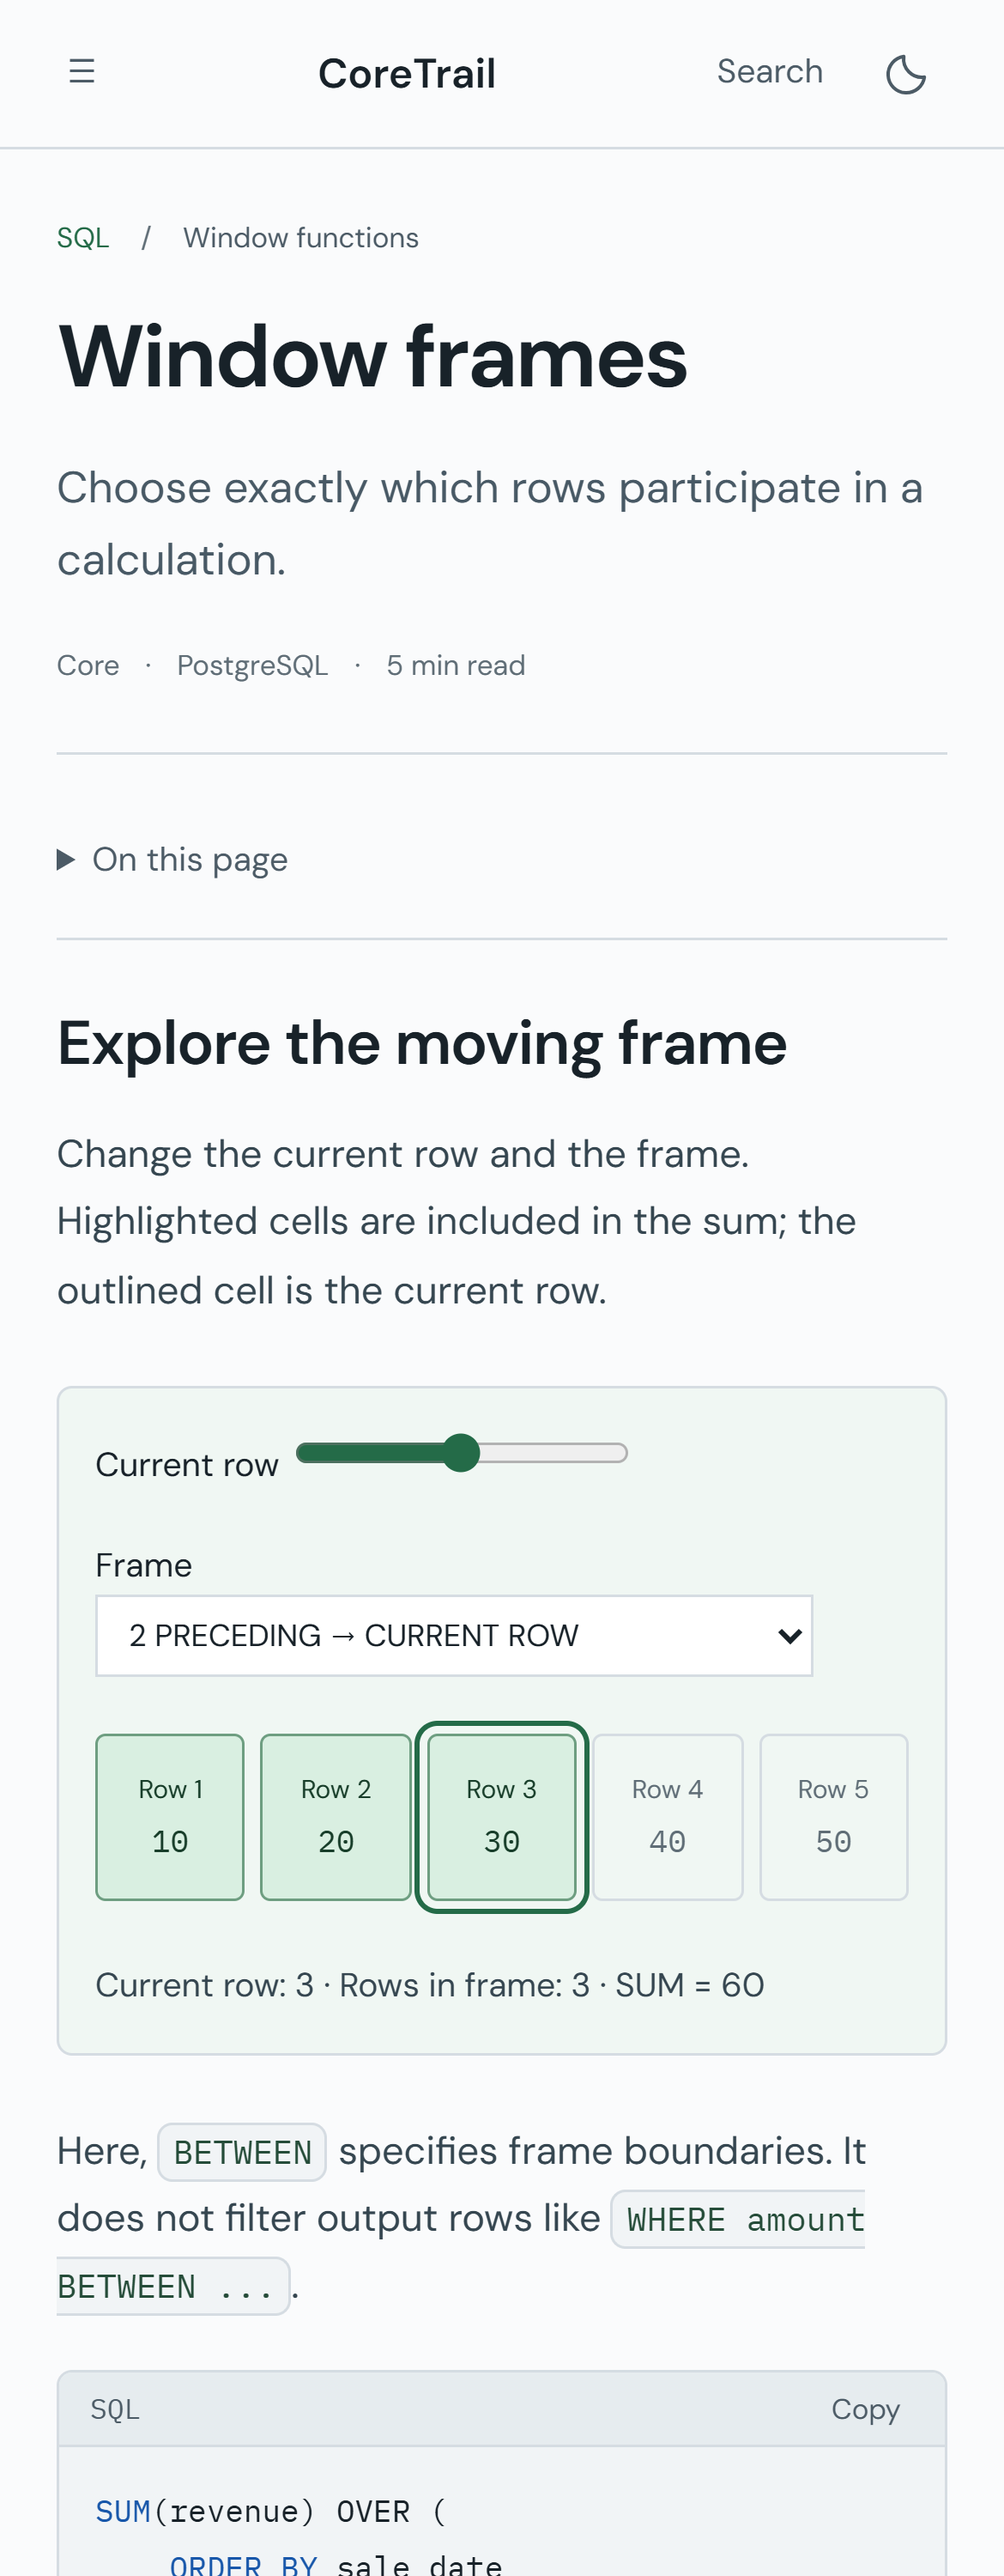
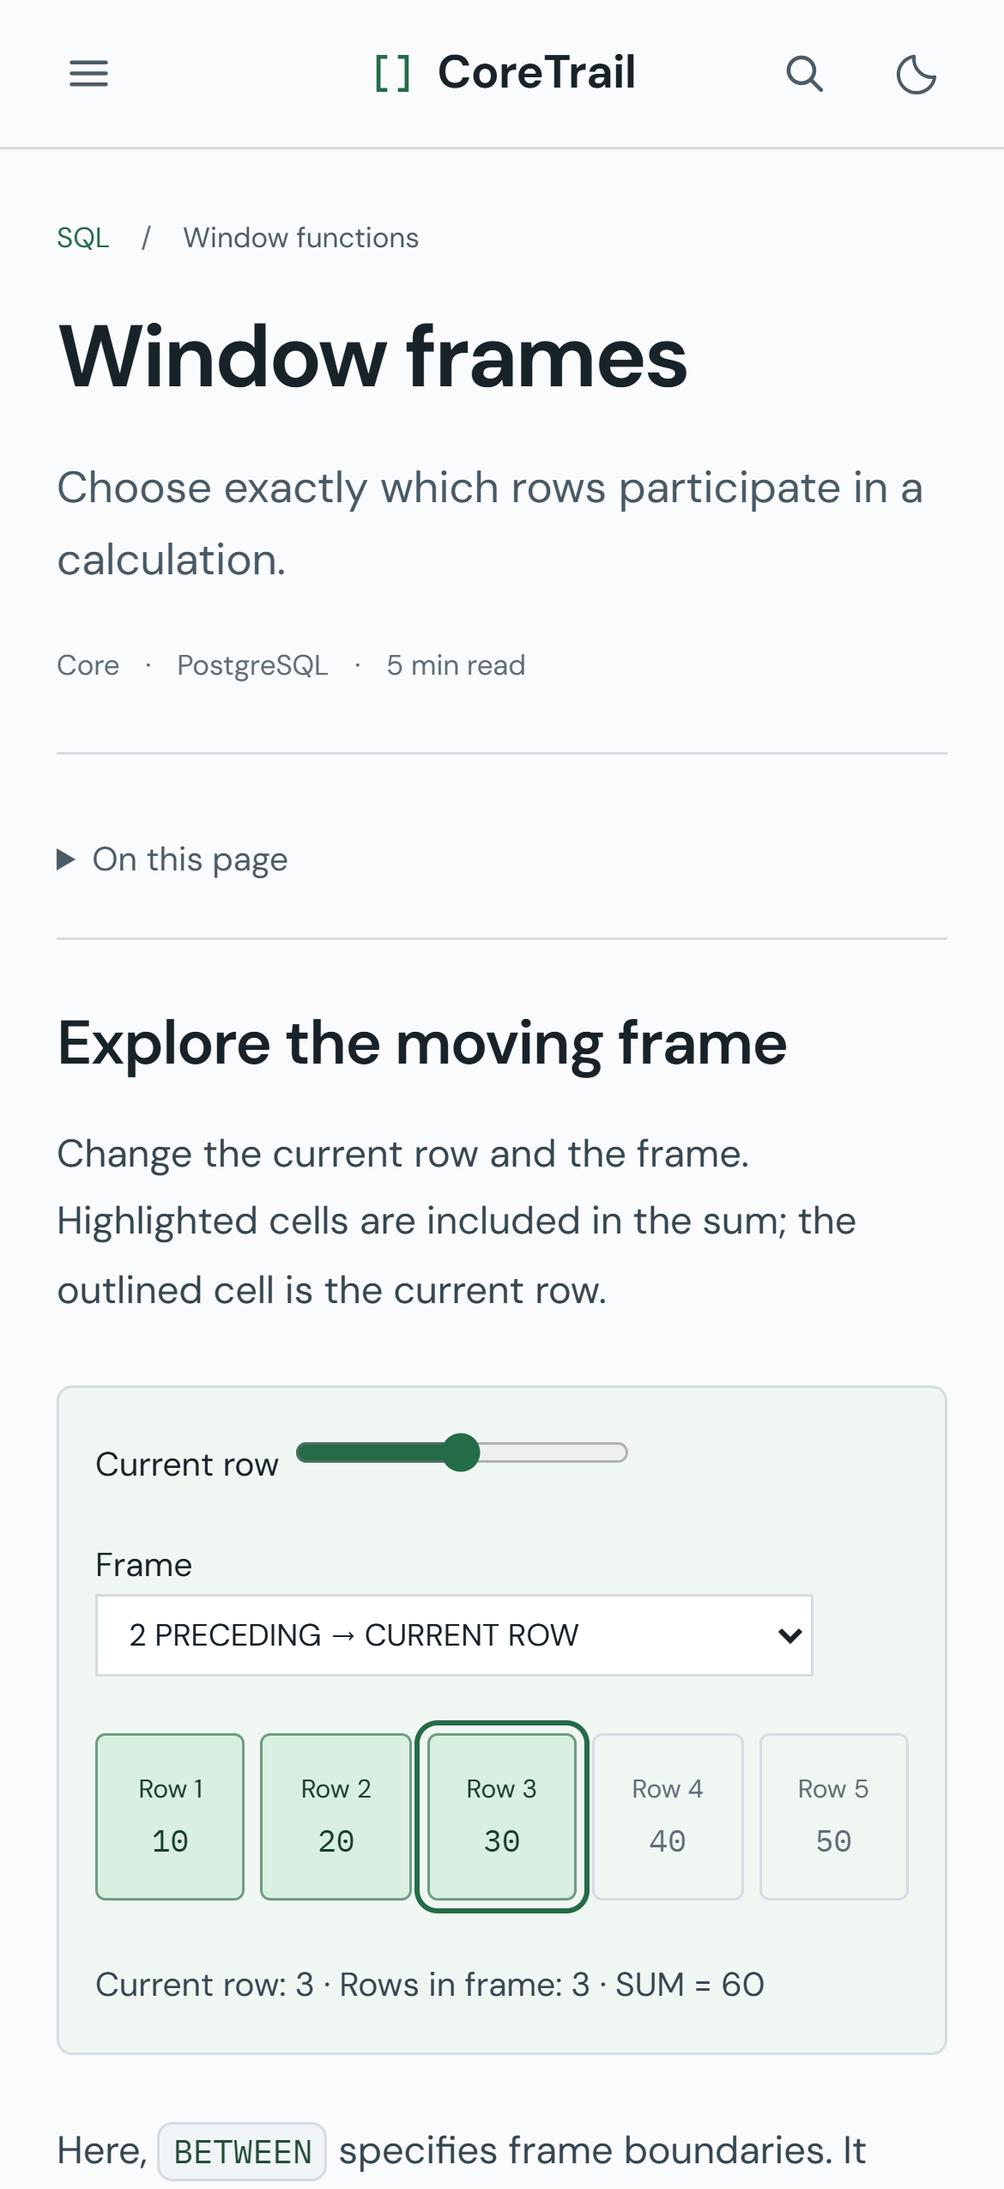
Refresh site screenshots and add social preview metadata

diff --git a/app/templates/includes/head.html b/app/templates/includes/head.html
@@ -1,16 +1,38 @@
 <meta charset="utf-8">
 <meta name="viewport" content="width=device-width, initial-scale=1">
 <meta name="color-scheme" content="light dark">
-<meta name="description" content="{{ page.description | default: site.description | escape }}">
-<title>
-  {{ page.title | escape }}
-  ·
-  {{ site.title }}
-</title>
+{% assign meta_description = page.description | default: site.description %}
+{% assign meta_title = page.title | default: site.title %}
+{% if page.title %}
+  {% assign meta_title = page.title | append: ' · ' | append: site.title %}
+{% endif %}
+<meta name="description" content="{{ meta_description | escape }}">
+<title>{{ meta_title | escape }}</title>
 <link rel="icon" href="{{ '/assets/favicon.svg' | relative_url }}" type="image/svg+xml">
 <script src="{{ '/assets/js/theme.js' | relative_url }}"></script>
 <link rel="stylesheet" href="{{ '/assets/css/main.css' | relative_url }}">
 <link rel="canonical" href="{{ page.url | absolute_url }}">
+<meta property="og:type" content="website">
+<meta property="og:site_name" content="{{ site.title | escape }}">
+<meta property="og:title" content="{{ meta_title | escape }}">
+<meta property="og:description" content="{{ meta_description | escape }}">
+<meta property="og:url" content="{{ page.url | absolute_url }}">
+<meta property="og:image" content="{{ '/assets/images/social-preview.png' | absolute_url }}">
+<meta property="og:image:type" content="image/png">
+<meta property="og:image:width" content="3600">
+<meta property="og:image:height" content="1890">
+<meta
+  property="og:image:alt"
+  content="CoreTrail home page with the handbook headline and subject directory"
+>
+<meta name="twitter:card" content="summary_large_image">
+<meta name="twitter:title" content="{{ meta_title | escape }}">
+<meta name="twitter:description" content="{{ meta_description | escape }}">
+<meta name="twitter:image" content="{{ '/assets/images/social-preview.png' | absolute_url }}">
+<meta
+  name="twitter:image:alt"
+  content="CoreTrail home page with the handbook headline and subject directory"
+>
 <script src="{{ '/assets/js/main.js' | relative_url }}" type="module"></script>
 {% if page.mermaid %}
   <script src="{{ '/assets/js/diagrams.js' | relative_url }}" type="module"></script>

diff --git a/README.md b/README.md
@@ -13,11 +13,11 @@ A Jekyll handbook for technical interview revision across data, AI, machine lear
 
 ### Desktop: Home page (dark mode)
 
-[![CoreTrail desktop home page with the subject directory and learning paths](app/assets/images/screenshots/desktop-home.png)](app/assets/images/screenshots/desktop-home.png)
+[![CoreTrail desktop home page with Home, Subjects, Resources, and About navigation above the subject directory](app/assets/images/screenshots/desktop-home.png)](app/assets/images/screenshots/desktop-home.png)
 
 ### Mobile: SQL lesson (light mode)
 
-<a href="app/assets/images/screenshots/mobile-lesson.png"><img src="app/assets/images/screenshots/mobile-lesson.png" alt="CoreTrail mobile SQL lesson with navigation, page outline, and window-frame explorer" width="390" /></a>
+<a href="app/assets/images/screenshots/mobile-lesson.png"><img src="app/assets/images/screenshots/mobile-lesson.png" alt="CoreTrail mobile Window frames lesson with the current header, page outline, and interactive frame explorer" width="390" /></a>
 
 ## Why I built it
 
